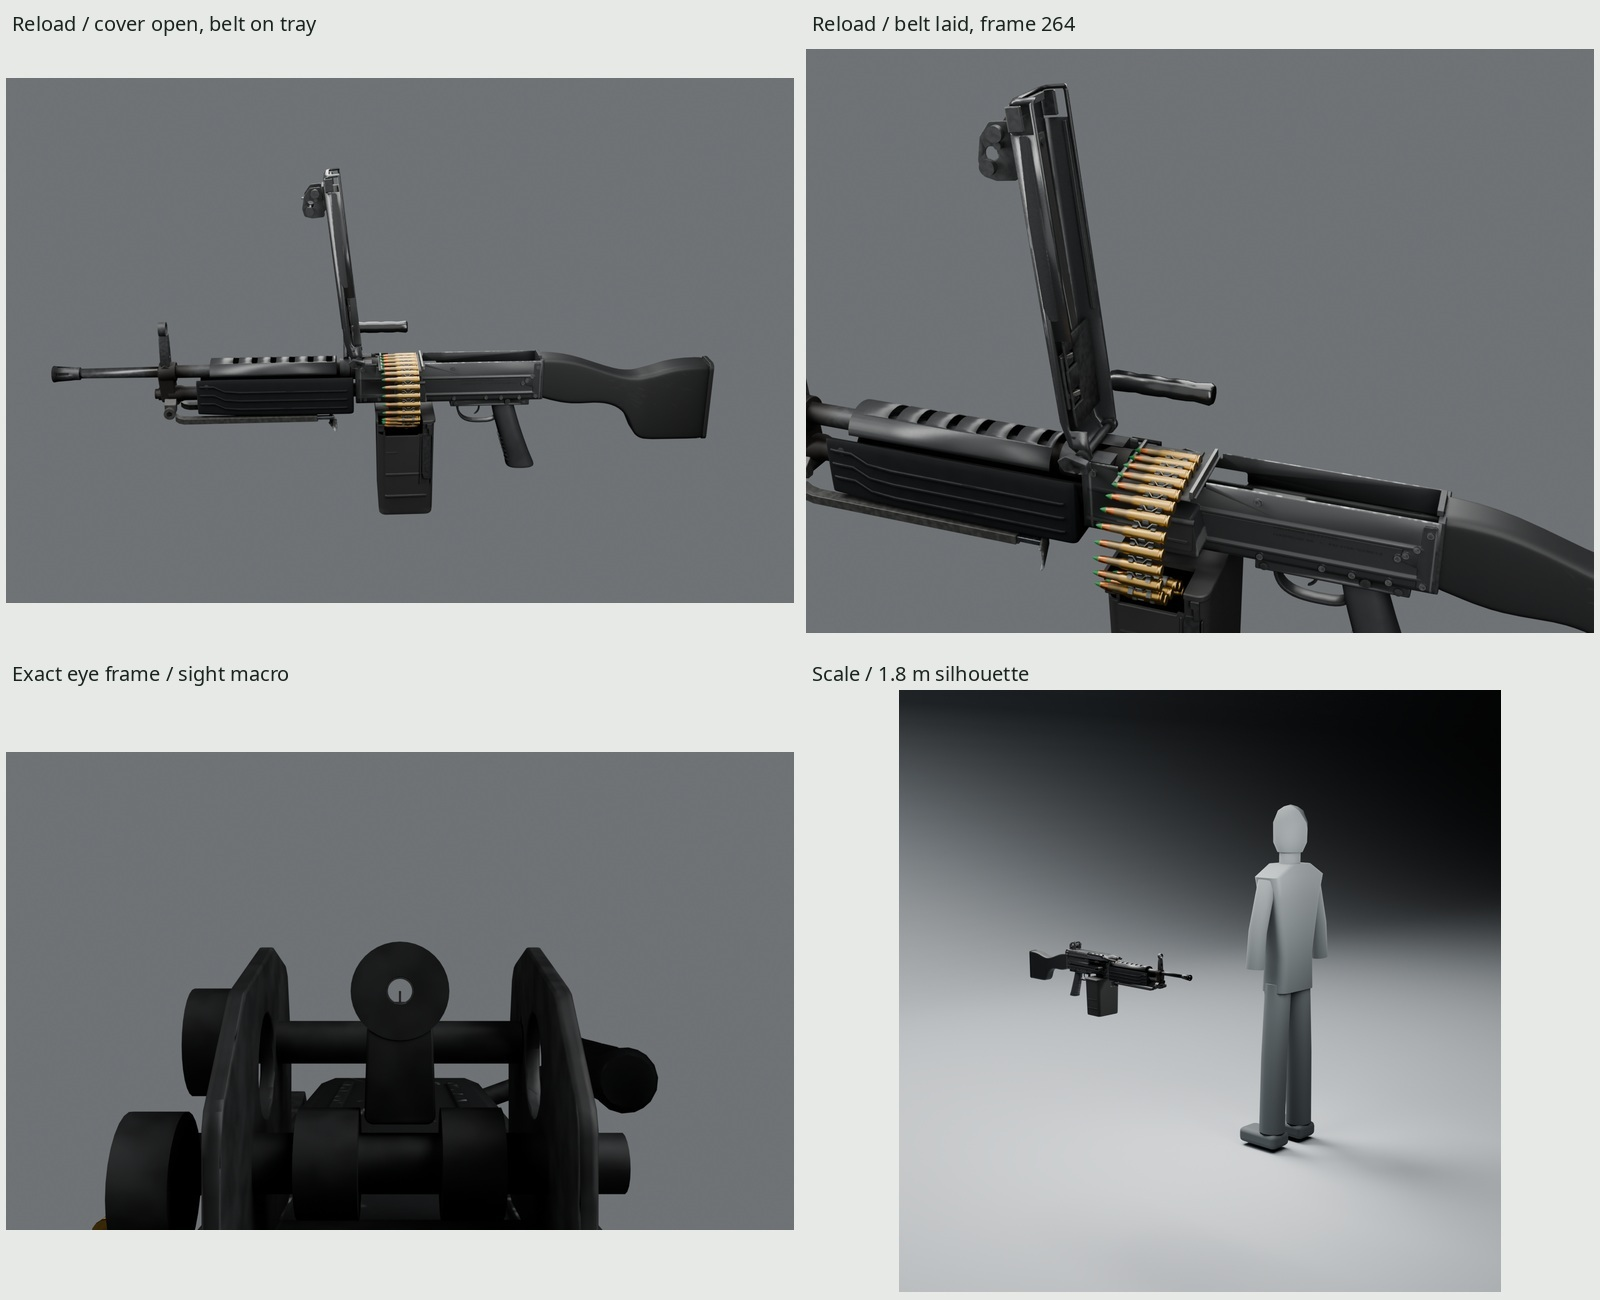
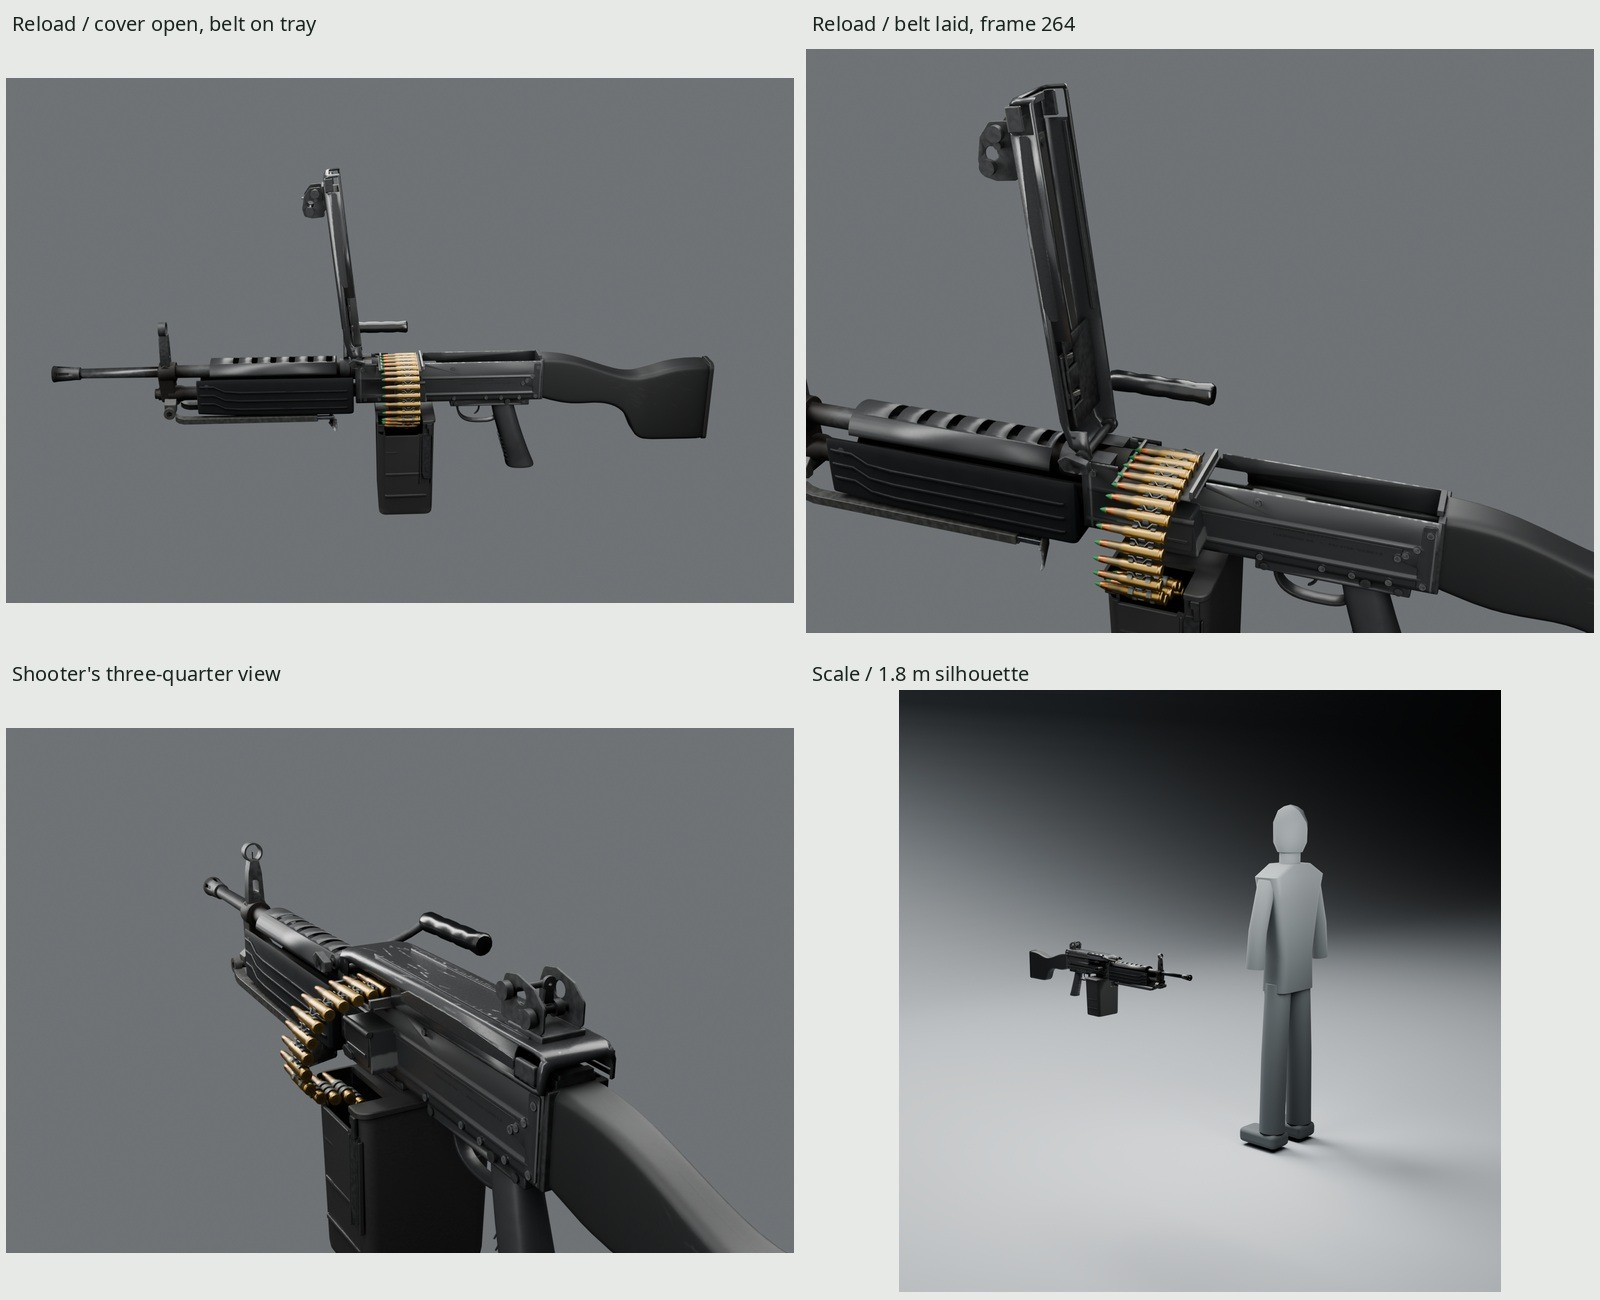
Enlarge Harrow reload GIF and replace dark sight panel

Changed region(s): [[0.0, 0.6462, 0.5, 0.9846], [0.0, 0.5538, 0.5, 0.5846], [0.0, 0.4923, 0.1875, 0.5231]]

diff --git a/guns/lmg/src/docs.py b/guns/lmg/src/docs.py
@@ -50,7 +50,7 @@ def main():
     DOCS.mkdir(exist_ok=True)
     shots = {n: checked('beauty', n) for n in (
         'hero', 'front', 'side', 'back', 'top', 'cover_open_full', 'rear_sight',
-        'barrel_handle', 'furniture', 'belt', 'aimed_macro', 'scale')}
+        'barrel_handle', 'furniture', 'belt', 'shooter_three_quarter', 'scale')}
     feed = checked('docs-feed', 'belt_laid')
     eevee = checked('eevee', 'hero', 'BLENDER_EEVEE')
     turnaround = sheet([(n.title(), shots[n]) for n in ('front', 'side', 'back', 'top')], OUT / 'turnaround.jpg')
@@ -62,7 +62,7 @@ def main():
     action = sheet([
         ('Reload / cover open, belt on tray', shots['cover_open_full']),
         ('Reload / belt laid, frame 264', feed),
-        ('Exact eye frame / sight macro', shots['aimed_macro']),
+        ("Shooter's three-quarter view", shots['shooter_three_quarter']),
         ('Scale / 1.8 m silhouette', shots['scale'])], OUT / 'action.jpg', (800, 650))
     all_stills = [(name, checked('beauty', name))
                   for name in json.loads((OUT / 'beauty/shots.json').read_text())]

diff --git a/guns/GIFS.md b/guns/GIFS.md
@@ -21,7 +21,7 @@ half-open clip intervals, so the endpoint is not counted twice.
 | [bolt](./bolt/docs/motion.gif) | `Fire` | 720×351 | 55 | 25 | 254 | 434,764 | 2,700 |
 | [ak](./ak/docs/motion.gif) | `ReloadEmpty` | 820×443 | 70 | 20 | 252 | 427,451 | 4,000 |
 | [smg](./smg/docs/motion.gif) | `ReloadEmpty` | 960×519 | 70 | 20 | 249 | 300,968 | 4,000 |
-| [lmg](./lmg/docs/motion.gif) | `Reload` | 480×384 | 120 | 20 | 189 | 392,971 | 6,500 |
+| [lmg](./lmg/docs/motion.gif) | `Reload` 226–346 | 720×496 | 40 | 20 | 128 | 437,964 | 2,500 |
 
 All palettes allocate at most 256 entries, including transparency for unchanged
 pixels. ffmpeg uses one palette for the entire clip, no dithering, difference
@@ -41,20 +41,22 @@ every sample advances by 50 ms (40 ms for bolt), with the extra 500 ms on index
 | bolt | 000–054 | Fire 0, 2.4, …, 129.6 |
 | ak | 000–069 | ReloadEmpty 0, 3, …, 207 |
 | smg | 000–069 | ReloadEmpty 0, 3, …, 207 |
-| lmg | 000–119 | Reload 0, 3, …, 357 |
+| lmg | 000–039 | Reload 226, 229, …, 343; belt placement through latch seating |
 
 All renders start at 960 pixels wide. The revolver's complete 960-pixel reload
 exceeded 1 MB: after a tighter composition and removal of static margins, it
 still needed 576 pixels and a 192-entry allocation. Bolt and AK needed 720 and
 820 pixels respectively after larger deliveries exceeded 450,000 bytes. These
-retain their full moving spans and full palette allocations. No gun required
-reducing its selected frame rate. Fine revolver surface detail is softer at its
+retain their full moving spans and full palette allocations. Those eight guns
+retain their selected frame rates. Fine revolver surface detail is softer at its
 smaller delivery size; the extractor, cases and loader remain readable.
-The Harrow's full six-second reload ships at 480 pixels with a 192-entry
-allocation. A 960-pixel landscape was 1,263,756 bytes, 640 pixels was 708,992,
-and a tighter portrait crop increased the animated area to 1,290,055 bytes at
-576 pixels. The final landscape keeps every sample and all cover/box travel;
-its 189 distinct entries retain dark paint, gray polymer and colored rounds.
+The Harrow uses a focused Reload excerpt, starting with the cover open and
+showing belt placement, cover closing and latch seating. Trimming the outer
+holds and reframing the full reload still exceeded the byte limit. The final
+right-side crop uses 720 pixels, 20 Hz and 128 colors; it keeps the cover's
+travel visible while the static muzzle and stock end leave the image. Its
+500-ms opening hold and two seconds of authored motion give a 2,500-ms loop.
+The complete six-second clip remains in the GLB.
 
 Camera coordinates below are meters in the existing gun frame (+Y forward,
 +Z up, +X right). All use a 36 mm horizontal sensor and the member's unchanged
@@ -70,7 +72,7 @@ action crops spend pixels on the feed/ejection area.
 | bolt | (0.68, 0.015, 0.29) | (0, 0.135, 0.045) | 48 | 2.05 | 0 | -0.15 |
 | ak | (1.12, 0.53, 0.38) | (0, 0.16, -0.04) | 49 | 1.85 | 0 | -0.15 |
 | smg | (-0.92, 0.48, 0.35) | (0, 0.08, -0.02) | 50 | 1.85 | 0 | -0.15 |
-| lmg | (−1.25, −0.12, 0.68) | (−0.015, 0.16, 0.04) | 43 | 1.25 | 0 | -0.15 |
+| lmg | (2.189065, 0.660338, 2.015548) | (−0.021001, 0.184324, 0.043489) | 115.2 | 1.45 | 0.6 | -0.15 |
 
 The pistol's `ReloadEmpty` shows magazine exchange and slide release; its short
 Fire would hide most of the mechanism. The revolver's `Reload` shows the crane,
@@ -79,10 +81,10 @@ reloads show their different magazine and charging-handle paths. The pump and
 bolt `Fire` include the complete manual cycle, with their corrected visible
 feed and ejection. The lever keeps its original separate `Fire` → `Cycle`
 sequence: combining the presentation does not alter either exported clip.
-The Harrow's complete `Reload` shows cover opening, belt withdrawal, box
-exchange, belt placement on the tray and closing. Its .20-second Fire is too
-brief to show those relationships as clearly. The hero supplies its complete
-silhouette; the GIF frames the cover, belt and box throughout their travel.
+The Harrow retains `Reload`, selecting the belt-laying and cover-closing
+phase so its tray, rounds, links and latch have more screen space. Its
+right-side view looks down across the tray. The complete reload's opening,
+withdrawal and box exchange remain available in the exported animation.
 
 Each `src/gif.json` is the camera/sequence source of truth. Each gun's
 `build/gif/report.json` records the source GLB hash, every sampled source frame,
@@ -120,15 +122,11 @@ accepted bake. The [AK investigation](ak/REVIEW.md#fresh-build-check--2026-10-30
 records the byte/texel measurements, tolerance and full command results.
 The accepted docs JPGs and GIF remain unchanged.
 
-Harrow completion on `wp/guns-lmg` (2026-10-30): two full `make gif` runs
-deliver identical GIF bytes. All 120 decoded candidate frames match exactly;
-the shared tool's explicit canonical-byte comparison retains the first
-delivery. Every decoded frame was opened on its native review page. Corner
-RGB is constant at 111/114/118, and quantization averages .929 RGB levels on
-the object. The compact loop retains the complete six-second reload. The
-[LMG review](lmg/REVIEW.md#finals--delivered-gif-frame-and-palette-review)
-records compression trials, palette/color inspection and the continuous
-visual-playback limitation.
+Harrow docs correction on `wp/guns-lmg` (2026-10-30): the original 480-pixel
+full-gun loop was too small to show the feed assembly clearly. The current
+720-pixel excerpt replaces it. Its frame, palette, clipping and preservation
+checks are recorded in [the LMG review](lmg/REVIEW.md#docs-correction--larger-reload-excerpt-and-shooters-view).
+The earlier full-loop evidence remains historical in that review.
 
 All decoded frames were inspected, with native pages for feed, ejection,
 extraction and charging. Background corners remain exactly constant; global

diff --git a/guns/lmg/REVIEW.md b/guns/lmg/REVIEW.md
@@ -1426,3 +1426,79 @@ asset implementation, material, wear field or other gun implementation is
 changed. Nothing is pushed or merged into main. The one outstanding review
 item is the continuous real-speed visual watch described above; all frame,
 container-timing and headless speed-1 checks are complete.
+
+## Docs correction — larger reload excerpt and shooter's view
+
+The owner accepted `6674824` except for the small full-gun GIF and the dark
+exact-eye macro panel. This pass changes only those presentations and their
+recipes/documentation. No geometry, GLB animation, material, texture or wear
+changes are made.
+
+The GIF camera now looks down from above and slightly forward of the right
+side. The receiver, tray, attached box, cover and latch remain visible; the
+static muzzle and stock end leave the image. The cover's full closing travel
+stays inside the crop. `Reload` remains the selected exported clip, sampled
+without retiming. The presentation selects source frames **[226, 346)**:
+the cover starts open, the belt returns onto the tray, and the cover closes
+and latches. Opening, belt withdrawal and box exchange are omitted from this
+excerpt; the complete six-second Reload remains in the unchanged GLB. The
+loop cuts from the closed cover back to the initial open-cover pose, with no pose jump
+inside the excerpt. It is not a seamless mechanical cycle.
+
+Compression trials followed the requested order: remove outer holds, tighten
+the mechanism crop, then reduce frame rate and palette. The full moving span
+at 720×496 / 25 Hz / 64 colors still encoded to **901,700 bytes**. Focusing
+on belt placement through closing gave **624,911 bytes** at 720×496 / 25 Hz /
+256 colors, or **501,370** with 128 colors. At 20 Hz, 144 colors still gave
+**451,260 bytes**; 128 colors passed. A tighter portrait keeping all cover/box
+travel spent more pixels on moving surfaces and was larger. Trial logs remain
+under the repository-root `build/lmg-docs-fix/` folder.
+
+Final delivery: **720×496, 40 decoded frames, 20 fps, 128 distinct palette
+entries, 437,964 bytes**. Source samples are 226, 229, …, 343 at authored
+60-Hz timing. There is an added **500-ms initial hold**: first frame 550 ms,
+then 39 frames of 50 ms, for a **2,500-ms loop**. The shared tool uses one
+global palette, no dithering and the member's unchanged flat gray studio
+background, lighting, exposure and baked maps. There is no text in the GIF.
+
+Opened all forty decoded frames on native review pages `frames-0000.jpg`,
+`0008`, `0016`, `0024` and `0032` in `build/gif/review/`. Color/value first:
+paint stays black with satin reflections, furniture is grayer, and brass,
+copper and green tips retain the docs JPG colors. No visible palette flicker,
+objectionable paint banding or moving background noise was found. Rounds and
+links remain separate as the belt settles across the tray; cover edges and
+latch travel are readable, with no cover clipping. The box stays visible.
+The loop reset is an explicit cut to the held open-cover pose. The existing
+continuous-visual-playback limitation above remains; frame inspection is not
+described as a live visual watch.
+
+Decoded corner RGB stays exactly **111/114/118** in all forty frames. Against
+the corresponding resized RGB renders, object pixels average **.806 encoded
+channel levels** of absolute quantization error; the largest per-frame 99th
+percentile is **9**. These measurements support the visual inspection. The
+ignored audit is `build/lmg-docs-fix/gif-audit.json` at repository root.
+Fresh `make -C guns/lmg gif` exits zero and retains the first passing delivery
+through the shared tool's canonical comparison: candidate frame mean error
+at most .00000654 levels, maximum component difference 3, and at most
+.00000281 of pixels over two levels. Delivered SHA-256:
[1 lines of base64/hex data omitted]
+
+Replaced the action sheet's dark macro with the existing GLB-rendered
+`renders/final/beauty/shooter_three_quarter.png`, captioned "Shooter's
+three-quarter view". Opened the resulting JPG: the gunner's view now shows
+the receiver, sight, cover and visible feed side in context. No new render
+or material adjustment is involved. `action.jpg` is **1600×1300, 182,164
+bytes**, JPEG quality 91. The other four accepted docs JPGs are byte-identical
+to `6674824`. `python3 guns/lmg/src/docs.py` rebuilds the sheet and refreshes
+the ignored `renders/final/docs-contact-sheet.jpg` and docs report.
+
+Validation: `make -C guns/lmg gif`, `make -C guns/lmg check` and
+`python3 kit/repo_check.py` all exit zero. The check retains the accepted
+atlas verification across **1,529 poses**. Logs are `gif-final.log`,
+`check.log` and `repo-check.log` under root `build/lmg-docs-fix/`.
+All six delivery GLBs and three canonical texture PNGs match the frozen
+handoff hashes in that folder's `frozen-delivery.json`. Budgets remain
+**47,638 triangles, one material, three 2048 maps, 14,579,528 GLB bytes**;
+canonical PNG total remains **10,016,210 bytes**. No kit/common implementation
+changes, merge or push. No new asset flaw found; the presentation tradeoff
+is the shorter Reload excerpt and its loop cut.

diff --git a/guns/lmg/README.md b/guns/lmg/README.md
@@ -11,12 +11,12 @@ Every vertex, texel and marking comes from our Blender 5.2 scripts.
 
 ![Signature reload from the exported GLB](docs/motion.gif)
 
-`Reload` at real speed: cover opening, box exchange, belt laid on the tray and cover closing.
+`Reload` excerpt at real speed: belt laid on the tray, cover closing and latch seating.
 
 | | |
 | --- | --- |
 | ![Front, side, back and top](docs/turnaround.jpg) | ![Sight, carrying handle, furniture and belt](docs/details.jpg) |
-| ![Open cover, loaded tray, exact eye view and 1.8 m scale](docs/action.jpg) | ![Eevee with the same baked maps](docs/eevee.jpg) |
+| ![Open cover, loaded tray, shooter's three-quarter view and 1.8 m scale](docs/action.jpg) | ![Eevee with the same baked maps](docs/eevee.jpg) |
 
 All images load exported GLBs with their embedded baked maps. `make` creates
 Cycles stills in `renders/final/beauty/`, the feed close-up in `docs-feed/`,
@@ -211,13 +211,14 @@ manifest; `build/interface.json` is generated. Clip endpoints are inclusive.
 Reload releases the latch at frame 18, opens the cover at 60, lifts the belt
 at 88, withdraws the box at 140, seats its replacement at 215, lays the belt
 at 264, closes the cover at 324 and latches at 340. ReloadEmpty finishes its
-handle draw/return at 380/410. The README GIF uses the complete `Reload`,
-with no slowed motion, sampled at 20 Hz and an added 500-ms initial hold.
-Its camera keeps the full cover and box travel visible; the longer manual
-sequence makes the belt/tray relationship clearer than the .20-s Fire.
-Delivery is **480×384, 120 frames, 20 Hz, 189 distinct palette entries and
-392,971 bytes**, with a 6,500-ms total loop. The smaller GIF keeps the complete
-motion; fine link and finish inspection belongs to the action/details JPGs.
+handle draw/return at 380/410. The README GIF shows `Reload` frames 226–346:
+the cover starts open, the belt settles visibly onto the tray, then the cover
+closes and latches. It runs at authored speed, sampled at 20 Hz, with a 500-ms
+initial hold. The camera looks from above and in front of the right side;
+the muzzle and stock end leave the mechanism crop while the cover stays in frame.
+Delivery is **720×496, 40 frames, 20 Hz, 128 distinct palette entries and
+437,964 bytes**, with a 2,500-ms total loop. The complete six-second Reload
+and all other clips remain in the unchanged GLB.
 
 Persist `{version, clip, frame, remaining, phase}` for pause/resume. Never jump
 to Idle while the cover is open or box absent. `src/belt.py` supplies the
